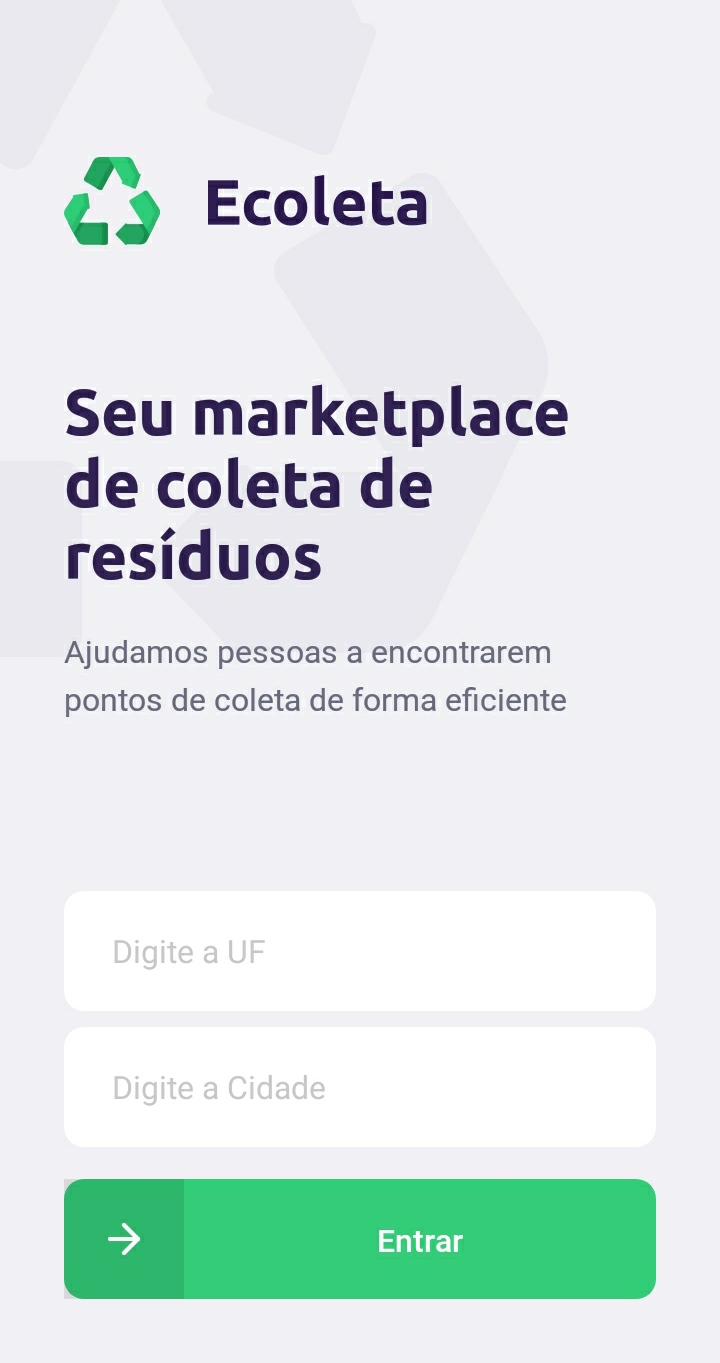
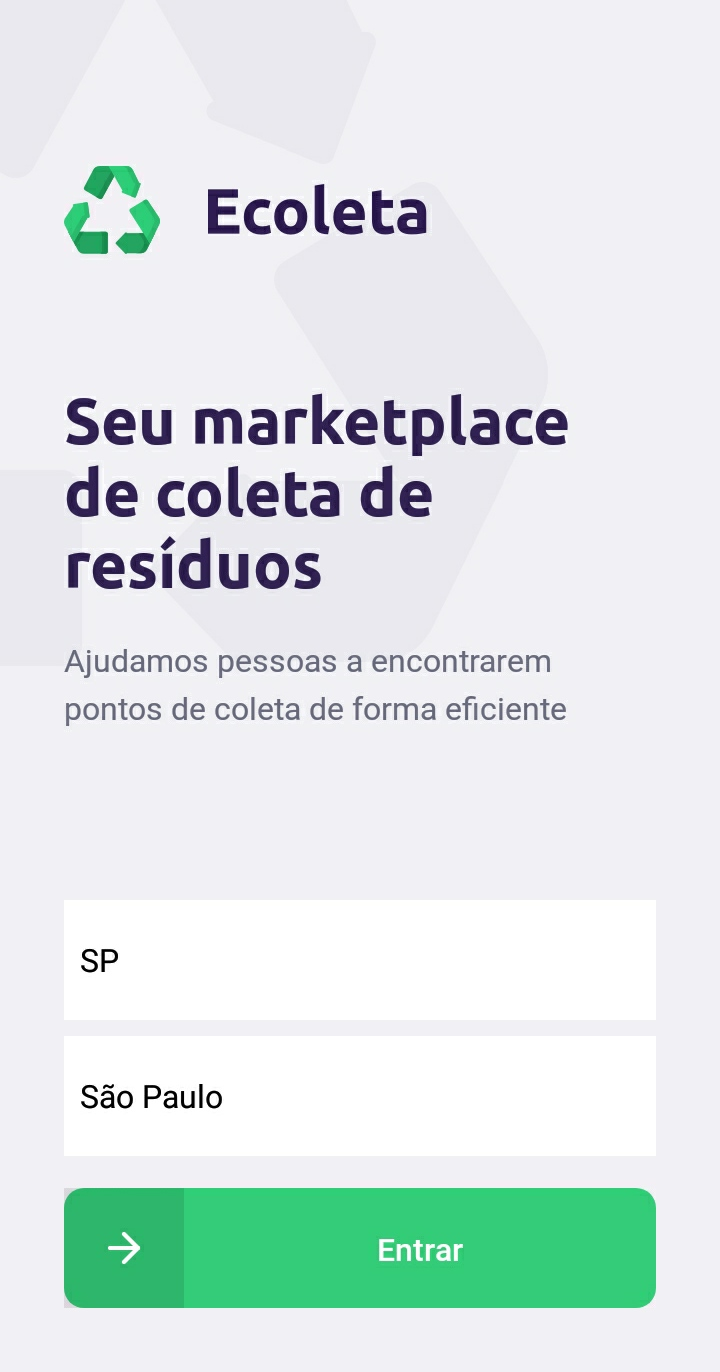
(mobile) Add picker to select uf and city

diff --git a/mobile/src/pages/Home/index.tsx b/mobile/src/pages/Home/index.tsx
@@ -1,4 +1,4 @@
-import React, { useState } from "react";
+import React, { useState, useEffect } from "react";
 import { Feather as Icon } from "@expo/vector-icons";
 import {
   View,
@@ -10,19 +10,57 @@ import {
   KeyboardAvoidingView,
   Platform,
 } from "react-native";
+import { Picker } from "@react-native-community/picker";
 import { RectButton } from "react-native-gesture-handler";
 import { useNavigation } from "@react-navigation/native";
+import axios from "axios";
+
+interface IBGEUFResponse {
+  sigla: string;
+}
+
+interface IBGECityResponse {
+  nome: string;
+}
 
 const Home = () => {
   const navigation = useNavigation();
 
-  const [uf, setUf] = useState("");
-  const [city, setCity] = useState("");
+  const [ufs, setUfs] = useState<string[]>([]);
+  const [selectedUf, setSelectedUf] = useState("0");
+  const [cities, setCities] = useState<string[]>([]);
+  const [selectedCity, setSelectedCity] = useState("0");
+
+  // carregar estados
+  useEffect(() => {
+    axios
+      .get<IBGEUFResponse[]>(
+        "https://servicodados.ibge.gov.br/api/v1/localidades/estados"
+      )
+      .then((response) => {
+        const ufInitials = response.data.map((uf) => uf.sigla);
+        setUfs(ufInitials.sort());
+      });
+  }, []);
+
+  // carregar cidades
+  useEffect(() => {
+    // carregar cidades de acordo com UF
+    axios
+      .get<IBGECityResponse[]>(
+        `https://servicodados.ibge.gov.br/api/v1/localidades/estados/${selectedUf}/municipios`
+      )
+      .then((response) => {
+        const cityNames = response.data.map((city) => city.nome);
+        setCities(cityNames);
+      });
+    if (selectedUf === "0") return;
+  }, [selectedUf]);
 
   function handleNavigateToPoints() {
     navigation.navigate("Points", {
-      uf,
-      city,
+      uf: selectedUf,
+      city: selectedCity,
     });
   }
 
@@ -49,22 +87,31 @@ const Home = () => {
         </View>
 
         <View style={styles.footer}>
-          <TextInput
+          <Picker
+            prompt="Selecione seu estado"
             style={styles.input}
-            placeholder="Digite a UF"
-            maxLength={2}
-            autoCapitalize="characters"
-            autoCorrect={false}
-            value={uf}
-            onChangeText={setUf}
-          />
-          <TextInput
+            selectedValue={selectedUf}
+            onValueChange={(itemValue, itemIndex) =>
+              setSelectedUf(String(itemValue))
+            }
+          >
+            {ufs.map((uf) => {
+              return <Picker.Item key={uf} label={uf} value={uf} />;
+            })}
+          </Picker>
+
+          <Picker
+            prompt="Selecione sua cidade"
             style={styles.input}
-            placeholder="Digite a Cidade"
-            value={city}
-            autoCorrect={false}
-            onChangeText={setCity}
-          />
+            selectedValue={selectedCity}
+            onValueChange={(itemValue, itemIndex) =>
+              setSelectedCity(String(itemValue))
+            }
+          >
+            {cities.map((city) => {
+              return <Picker.Item key={city} label={city} value={city} />;
+            })}
+          </Picker>
 
           <RectButton style={styles.button} onPress={handleNavigateToPoints}>
             <View style={styles.buttonIcon}>

diff --git a/mobile/src/pages/Points/index.tsx b/mobile/src/pages/Points/index.tsx
@@ -79,7 +79,7 @@ const Points = () => {
     api
       .get("points", {
         params: {
-          city: routeParams.city.trim(),
+          city: routeParams.city,
           uf: routeParams.uf,
           items: selectedItems,
         },
